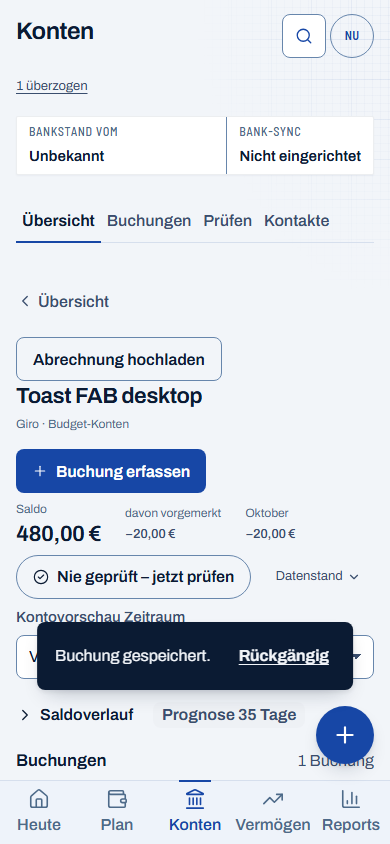
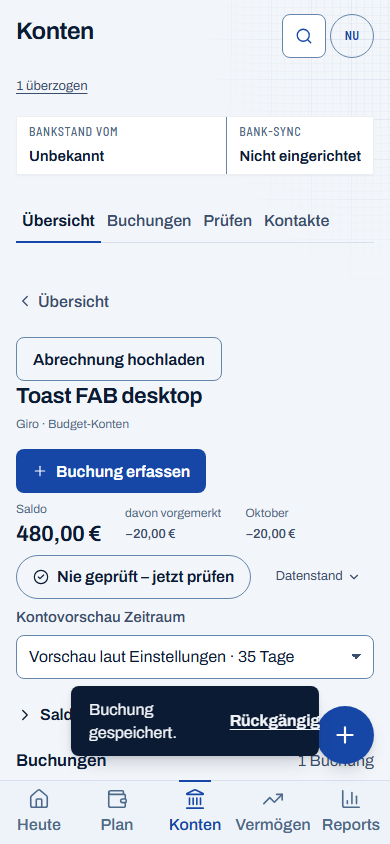
fix(ui): scope payroll feedback sizing to dialogs

Changed region(s): [[0.0923, 0.7393, 0.9231, 0.9242]]

diff --git a/e2e/issue-757-toast-fab.spec.ts b/e2e/issue-757-toast-fab.spec.ts
@@ -19,12 +19,24 @@ test('a saved booking toast leaves the mobile capture action reachable', async (
   await expect(toast(page)).toContainText('Buchung gespeichert');
   // Ordinary focus keeps the real Undo toast open throughout the reachability check.
   await toast(page).getByRole('button', { name: 'Rückgängig', exact: true }).focus();
-  const geometry = await fab.evaluate((element) => ({
-    fabTop: element.getBoundingClientRect().top,
-    toastBottom: document.querySelector('.toast.is-open .toast-body')!.getBoundingClientRect()
-      .bottom,
-  }));
-  expect(geometry.toastBottom).toBeLessThanOrEqual(geometry.fabTop);
+  const geometry = await fab.evaluate((element) => {
+    const action = element.getBoundingClientRect();
+    const feedback = document.querySelector('.toast.is-open .toast-body')!.getBoundingClientRect();
+    const x = action.x + action.width / 2;
+    const y = action.y + action.height / 2;
+    const hit = document.elementFromPoint(x, y);
+    return {
+      width: action.width,
+      height: action.height,
+      centreClear:
+        x < feedback.left || x > feedback.right || y < feedback.top || y > feedback.bottom,
+      centreHitsAction: hit !== null && element.contains(hit),
+    };
+  });
+  expect(geometry.width).toBeGreaterThanOrEqual(44);
+  expect(geometry.height).toBeGreaterThanOrEqual(44);
+  expect(geometry.centreClear).toBe(true);
+  expect(geometry.centreHitsAction).toBe(true);
   await page.screenshot({ path: info.outputPath('toast-fab.png'), animations: 'disabled' });
   await fab.click();
   await expect(dialog).toBeVisible();

diff --git a/packages/ui/src/styles/components.css b/packages/ui/src/styles/components.css
@@ -1222,7 +1222,6 @@ dialog.sheet-bottom.is-full .sheet-grip {
   left: 50%;
   bottom: 28px;
   translate: -50% 0;
-  width: max-content;
   max-width: calc(100vw - 32px);
   pointer-events: none;
 }
@@ -1253,7 +1252,6 @@ dialog.sheet-bottom.is-full .sheet-grip {
     translate 240ms var(--ease-out);
 }
 .toast button {
-  flex-shrink: 0;
   color: var(--ground);
   font-weight: 650;
   text-decoration: underline;
@@ -1274,6 +1272,14 @@ dialog.sheet-bottom.is-full .sheet-grip {
   .toast {
     bottom: calc(88px + env(safe-area-inset-bottom));
   }
+}
+
+/* Modal feedback needs room for its complete action label without changing page-toast geometry. */
+dialog .toast {
+  width: max-content;
+}
+dialog .toast button {
+  flex-shrink: 0;
 }
 
 /* A toast over a form dialog must not cover its footer buttons: it docks in the bottom right

diff --git a/e2e/checkbox-appearance.spec.ts b/e2e/checkbox-appearance.spec.ts
@@ -114,6 +114,10 @@ test.describe('select appearance', () => {
       await page.emulateMedia({ colorScheme: scheme, reducedMotion: 'reduce' });
       // #588: the toolbar select is gone; the category dialog (key C) holds a plain select.
       await page.goto('/plan/monat');
+      // The category shortcut mounts with the budget-backed plan body, after its initial query.
+      const ready = page.getByRole('button', { name: /^Kategorie in .+ anlegen$/ }).first();
+      await expect(ready).toBeVisible();
+      await expect(ready).toBeEnabled();
       await page.locator('body').click({ position: { x: 2, y: 2 } });
       await page.keyboard.press('c');
       const select = page

diff --git a/apps/web/src/shell/shell.css b/apps/web/src/shell/shell.css
@@ -400,10 +400,6 @@ a.btn {
     --fab-size: 58px;
     --fab-gap: 16px;
   }
-  /* Page feedback must clear the capture action; dialogs retain their own toast placement. */
-  .toast:not(dialog .toast) {
-    bottom: calc(var(--tabbar-h) + var(--fab-gap) + var(--fab-size) + 16px);
-  }
   .app {
     display: block;
     background: none;

diff --git a/docs/evidence/payroll-automation-741/README.md b/docs/evidence/payroll-automation-741/README.md
@@ -26,16 +26,19 @@ found no open source defect; final runtime evidence review subsequently passed.
 Actual WebKit image inspection also found the automatic-result Undo label extending
 past its shrunken button and toast background. A button-box check alone passed and
 was insufficient; a DOM text Range check reproduced the defect (`342.96 > 310.10`
-CSS pixels). The shared toast now has intrinsic content width capped by its unchanged
-viewport maximum, and its action cannot shrink. No focus, expiry, layer or
+CSS pixels). Dialog toasts now have intrinsic content width capped by their unchanged
+viewport maximum, and their actions cannot shrink. No focus, expiry, layer or
 Undo code changed. The same phone-dark test then passed with the complete label
 inside the button and toast. The 15 existing Toast/Layer tests passed; final combined
 browser coverage below subsequently passed.
 
-The first full CI then exposed a page-level Toast/FAB collision. The narrow mobile
-shell now places page feedback above its existing safe-area-aware capture action;
-all dialog descendants are excluded from that rule. [Diagnosis and regression](ci-toast-fab.md)
-retain the failing CI and the independently reproduced `756 > 706px` overlap.
+The initial global styling exposed a page-level Toast/FAB collision; moving page
+feedback upward then obstructed other page actions in full CI. The final correction
+is restricted to `dialog .toast` and its action. General page-toast rules and
+`shell.css` are identical to the verified base. [Diagnosis and regression](ci-toast-fab.md)
+retain both failures and the reproduced overlap. The new regression verifies a
+free FAB center, its actual hit target, at least 44px bounds and an ordinary click.
+It does not claim that the entire circular button's bounding rectangle is uncovered.
 
 ## Financial contract and focused runtime evidence
 
@@ -89,8 +92,13 @@ Unknown or conflicting facts remain in review.
   pending-result text. Both fixtures remain manually reviewed without a configured
   automatic employer; financial/confirm/Undo/reject/download/mapping assertions and
   existing waits remain unchanged.
+- EXISTING `e2e/checkbox-appearance.spec.ts`: wait for a visible, enabled
+  budget-backed category button before the unchanged `c` shortcut. CI trace proves
+  the key preceded budget-query completion while the page still showed its loading
+  state. All surface, chevron, touch-height assertions and deadlines are unchanged.
 - NEW `e2e/issue-757-toast-fab.spec.ts`: actual booking save, literal balance,
-  visible Undo feedback, no Toast/FAB overlap, ordinary second FAB click and amount
+  visible Undo feedback, free FAB center and actual hit target, 44px bounds,
+  ordinary second FAB click and amount
   focus. Its initial post-click layer assertion incorrectly expected page placement;
   the unchanged host resolver correctly returns a capture-origin toast to the same
   reopened capture host. The new expectation was corrected to that existing contract;
@@ -110,8 +118,9 @@ failed only the three new cases at their mistaken post-click layer assertion.
 All three had already passed geometry, actual FAB click and amount focus. That
 assertion is corrected as described above; the focused final run passed **6/6 in 33 seconds** (three setup plus all three
 engine/profile cases), without retry. These are separate runs, not a single 65/65
-run. The refreshed payroll artifacts below come from the 62 passing cases.
-[Toast/FAB images](toast-fab-manifest.json) are the three original final captures. Exact-head CI and normal protected
+run. At that checkpoint, the payroll artifacts came from the 62 passing cases;
+the final modal-scoped validation below supersedes them with refreshed originals.
+[Toast/FAB manifest](toast-fab-manifest.json) records the three current final captures. Exact-head CI and normal protected
 merge/live verification remain pending.
 
 [Original-image manifest](browser-manifest.json) records twelve PNG/runtime-JSON
@@ -133,3 +142,19 @@ as actually measured (zero on this Windows host), despite configured touch/coars
 emulation; no physical iPhone claim is made. The project Impeccable adapter and
 manual source/image checks were used; no unavailable upstream engine run is claimed.
 PR #719 remains stopped.
+
+## Final modal-scoped validation
+
+The final product restores all page-toast and shell rules to the verified base;
+[base correspondence](modal-scope-base-correspondence.json) records the comparison.
+The expanded run passed **97 prior cases in9.8 minutes**, including unchanged
+capture, plan quick assignment, payroll projects, portfolio instrument editing,
+manual intake and modal interaction, plus the technically synchronized checkbox
+style checks on Chromium and native WebKit. Three new cases failed only the overly
+strict whole-rectangle geometry assumption. The final free-center/hit-target/44px
+checks then passed **6/6 including setup in31.4 seconds**, without retry. These
+are separate runs, not a single100/100 result. Current30 payroll artifacts come
+from that97-case passing coverage; three current FAB images come from the final
+focused run. The preceding global-width and raised-page-toast CI failures are
+retained in the diagnosis and are not presented as green. Final headCI and exact
+protected live verification remain required.

diff --git a/docs/evidence/payroll-automation-741/ci-toast-fab.md b/docs/evidence/payroll-automation-741/ci-toast-fab.md
@@ -13,16 +13,32 @@ was secondary: the successful first save had already taught that payee's categor
 The new `issue-757-toast-fab.spec.ts` reproduced the geometry defect before the fix:
 toast bottom `756px`, FAB top `706px` at a `390 × 844` viewport. It saves an actual
 synthetic booking, verifies the literal `480,00 €` balance, focuses the existing
-Undo action to preserve the real toast, checks separation and clicks the FAB
+Undo action to preserve the real toast, checks the free click center and clicks the FAB
 normally. It then verifies the second capture dialog and its amount focus, the
 retained capture-origin toast and unchanged balance. No forced click, dismissal, added wait,
 deadline change or financial expectation change is used.
 
-The correction uses the shell's existing safe-area-aware tab-bar height, FAB gap
-and FAB size plus `16px` for the page toast's bottom offset. The selector explicitly
-excludes toast descendants of every `dialog`; modal payroll and statement feedback
-retain their existing placement. Toast duration, focus handling, layers and Undo
-implementation remain unchanged. The original `capture.spec.ts` is unmodified.
+An intermediate correction moved page feedback above the FAB. Although its focused
+checks passed, [CI39781069801](https://github.com/Grabman1987/budget/actions/runs/39781069801)
+on `a19d3e7a308ac7e35a879ed7dc221a4a41f5f7b4` exposed new page-action collisions:
+mobile plan quick assignment, payroll-project editing and instrument editing.
+The plan trace explicitly identifies the toast action as the click interceptor;
+the unchanged plan test also reproduced the timeout locally.
+
+The final correction removes that page displacement and restores every general
+page-toast rule and `shell.css` exactly to the verified base. Only `dialog .toast`
+receives intrinsic width and only its button receives the nonshrinking action.
+This keeps the proven payroll label correction in its modal context. Toast
+positions, duration, focus handling, layers and Undo implementation are unchanged.
+The original capture and newly implicated page tests are unmodified.
+
+The new regression checks a click center outside the toast body, an actual
+`elementFromPoint` center hit, at least 44px button bounds and the ordinary FAB
+click. Vertical-only and then whole-rectangle separation proved unnecessary layout
+assumptions: the original page layout has slight edge overlap while its center is
+reachable. The original failure intercepted that center and is caught by these
+checks. Literal balance, visible Undo, second dialog and focus checks remain.
+No claim of a completely uncovered circular-button rectangle is made.
 
 The expanded run passed all 62 prior cases, including the unchanged failing CI
 scenario. The three new cases passed geometry and actual clicks, then failed an
@@ -32,3 +48,11 @@ the new expectation was corrected without changing product layer handling.
 
 Validation and independent delta review are recorded with the final delivery
 evidence; the initial failing CI is retained and is not presented as green.
+
+The same second CI exposed an independent category-shortcut readiness race in
+`checkbox-appearance.spec.ts`. In retry1 the `c` key was sent at321153.006ms while
+the budget request completed at approximately321295.849ms; the snapshot still
+showed loading. `PlanBody` and its shortcut effect mount only after those data
+arrive. The technical adaptation waits for the visible, enabled category button,
+then retains the same single keypress and all original style/touch assertions.
+There is no sleep, repeated keypress, changed timeout or reduced expectation.
